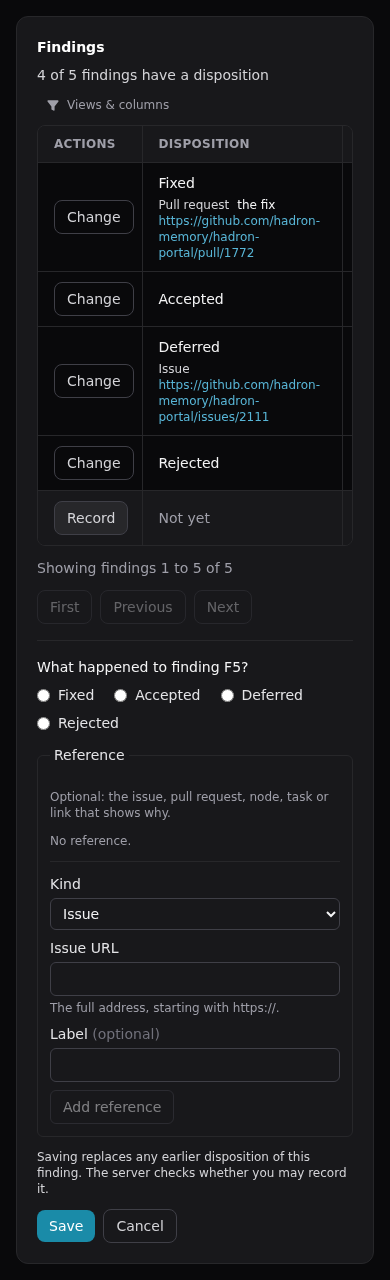
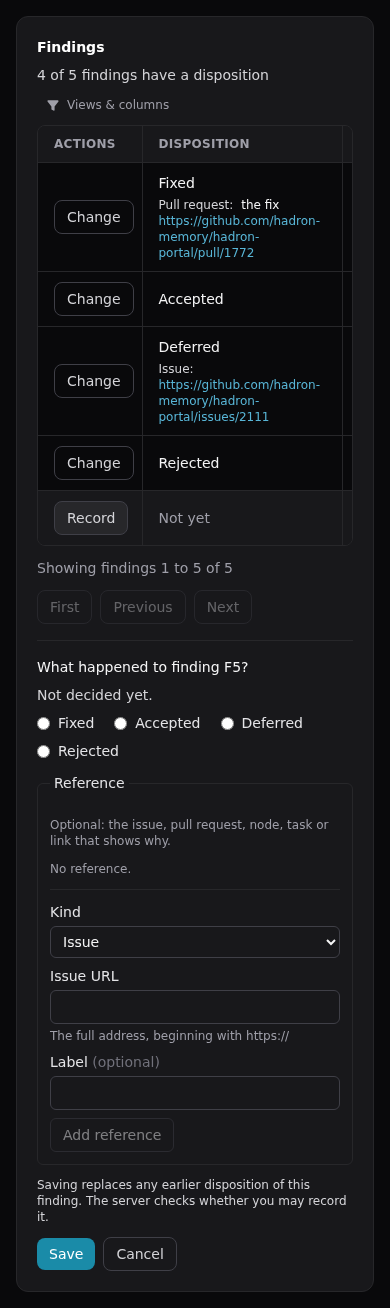
fix: follow-ups from the #2114 finding-disposition reviews (Refs #2121)
All eleven items, each P3 from the UX and blind reviews of #2114: the finding text is repeated under the form's question; the reference line separates its kind; plainer failed-read and URL helper copy; no dead derived; 'Disposition saved.' no longer outlives its page; an unavailable read says so; Record/Change stay disabled until the dispositions have loaded so a blank form can never replace a real one; the query limit comes from the provider-max constant; takesTaskRef replaces the misnamed planning flag; the SDL path is cwd-independent and the board and dispositions queries are validated against it; the layout script waits on a condition instead of a timer and is wired into package.json and CI.

Worker: Garland (portal-engineer) <hrn:worker:hadronmemory.com:hadron-dev-team:garland>

diff --git a/src/lib/components/agent-tasks/TaskFindings.svelte b/src/lib/components/agent-tasks/TaskFindings.svelte
@@ -173,6 +173,8 @@
 
   async function load(req: Request, trigger: HTMLButtonElement | null) {
     if (pending) return;
+    // A saved-confirmation belongs to the page it was made on; leaving it would mask later announcements.
+    saved = false;
     const ownedFocus = !!trigger && document.activeElement === trigger;
     cancel();
     const mine = generation;
@@ -206,12 +208,14 @@
   const next = (e: MouseEvent) => shown && load({ offset: nextFindingsOffset(shown), history: [...history, shown.offset] }, e.currentTarget as HTMLButtonElement);
   const retry = (e: MouseEvent) => failure && load(failure, e.currentTarget as HTMLButtonElement);
 
+  /** The finding the open form asks about, so its text can be repeated under the question. */
+  const editingRow = $derived(editing ? rows.find((r) => r.id === editing!.id) ?? null : null);
   const byId = $derived(disp.kind === 'ok' ? dispositionsById(disp.items) : null);
-  const resolved = $derived(disp.kind === 'ok' ? disp.total : null);
 
   async function openForm(id: string, trigger: HTMLButtonElement | null) {
-    if (saving) return;
-    const current = byId?.get(id);
+    // The form seeds from the read: never open it on a set that has not loaded, or a blank form could replace a real disposition.
+    if (saving || !byId) return;
+    const current = byId.get(id);
     editGeneration++;
     editing = { id, code: current?.disposition ?? '', refs: current?.reference ? [current.reference] : [], trigger };
     code = DISPOSITION_CODES.includes(current?.disposition as never) ? (current!.disposition) : '';
@@ -221,7 +225,7 @@
   }
   function closeForm() {
     const home = editing?.trigger;
-    editGeneration++; editing = null; refusal = null; saving = false;
+    editGeneration++; editing = null; refusal = null; saving = false; saved = false;
     void tick().then(() => { if (home?.isConnected) home.focus(); else heading?.focus(); });
   }
   const submit: Parameters<typeof enhance>[1] = ({ cancel: stop }) => {
@@ -315,9 +319,11 @@
     {/if}
     {#if disp.kind === 'ok' && view.page.total > 0}
       <p class="mb-2 text-sm text-zinc-600 dark:text-zinc-300" data-testid="findings-resolved">{t('app.tasks.disposition.resolved', '{disposed} of {total} findings have a disposition', { disposed: Math.min(disp.total, view.page.total), total: view.page.total })}</p>
+    {:else if disp.kind === 'unavailable'}
+      <p class="mb-2 text-sm text-zinc-600 dark:text-zinc-300" data-testid="dispositions-unavailable">{t('app.tasks.disposition.unavailable', 'The dispositions aren’t available.')}</p>
     {:else if disp.kind === 'failed'}
       <p class="mb-2 text-sm text-red-800 dark:text-red-300" data-testid="dispositions-failed">
-        {t('app.tasks.disposition.failed', 'Couldn’t load the dispositions, so none are shown as missing.')}
+        {t('app.tasks.disposition.failed', 'Couldn’t load the dispositions. Retry to see which findings have one.')}
         <button type="button" class="ml-2 {btn}" aria-disabled={dispPending} onclick={() => { if (!dispPending) void loadDispositions(); }}>{t('app.tasks.disposition.retry', 'Retry')}</button>
       </p>
     {/if}
@@ -340,7 +346,7 @@
             {/if}
           </div>
         {:else if c.column.id === 'actions'}
-          <button type="button" class={btn} disabled={saving} data-testid="finding-dispose"
+          <button type="button" class={btn} disabled={saving || !byId} data-testid="finding-dispose"
             aria-label={byId?.get(row.id) ? t('app.tasks.disposition.change-label', 'Change the disposition of finding {id}', { id: row.id }) : t('app.tasks.disposition.record-label', 'Record a disposition for finding {id}', { id: row.id })}
             onclick={(e) => openForm(row.id, e.currentTarget as HTMLButtonElement)}>{byId?.get(row.id) ? t('app.tasks.disposition.change', 'Change') : t('app.tasks.disposition.record', 'Record')}</button>
         {:else if c.column.id === 'severity'}
@@ -368,6 +374,7 @@
         <input type="hidden" name="findingId" value={editing.id} />
         <fieldset class="space-y-2" aria-describedby="dispose-authority">
           <legend class="text-sm font-medium text-zinc-900 dark:text-zinc-100">{t('app.tasks.disposition.legend', 'What happened to finding {id}?', { id: editing.id })}</legend>
+          {#if editingRow}{@render literal(editingRow.text, 'disposition-finding-text', 'line-clamp-3 select-text whitespace-pre-wrap break-words text-sm text-zinc-600 dark:text-zinc-300')}{/if}
           <div class="flex flex-wrap gap-x-5 gap-y-2">
             {#each DISPOSITION_CODES as c (c)}
               <label class="flex items-center gap-2 text-sm text-zinc-800 dark:text-zinc-200">

diff --git a/src/lib/components/agent-tasks/TaskFindings.disposition.client.test.ts b/src/lib/components/agent-tasks/TaskFindings.disposition.client.test.ts
@@ -214,3 +214,67 @@ describe('the form', () => {
     expect(document.activeElement).toBe(opener);
   });
 });
+
+// portal#2121: follow-ups from the #2114 reviews.
+describe('portal#2121 follow-ups', () => {
+  const nextButton = (t: HTMLElement) => Array.from(t.querySelectorAll<HTMLButtonElement>('button')).find((b) => b.textContent?.trim() === 'Next')!;
+
+  it('the form repeats the finding’s own text under the question, so it is not scrolled away on a phone', async () => {
+    stub(() => reply(okSet()));
+    const m = await setup();
+    buttons(m.target)[4]!.click(); await tick(8);
+    const form = formOf(m.target);
+    expect(form.querySelector('legend')?.textContent).toContain('finding F5');
+    expect(form.querySelector('[data-testid="disposition-finding-text"]')?.textContent).toContain('text F5');
+  });
+
+  it.each([[403], [404]])('a %i on the dispositions read says they are unavailable and shows no Not yet', async (status) => {
+    stub(() => reply({}, status));
+    const m = await setup();
+    expect(m.target.querySelector('[data-testid="dispositions-unavailable"]')?.textContent).toContain('aren’t available');
+    expect(new Set(cells(m.target))).toEqual(new Set(['Unknown']));
+    expect(m.target.querySelector('[data-testid="dispositions-failed"]')).toBeNull();
+  });
+
+  it('a failed dispositions read uses the plainer line with a Retry', async () => {
+    stub(() => reply({}, 500));
+    const m = await setup();
+    const note = m.target.querySelector('[data-testid="dispositions-failed"]');
+    expect(note?.textContent).toContain('Couldn’t load the dispositions. Retry to see which findings have one.');
+    expect(note?.querySelector('button')?.textContent).toBe('Retry');
+  });
+
+  it('Record and Change stay disabled until the dispositions have loaded, and open no form', async () => {
+    const d = deferred(); stub(() => d.promise);
+    const m = await setup();
+    expect(buttons(m.target).every((b) => b.disabled)).toBe(true);
+    buttons(m.target)[0]!.click(); await tick(4);
+    expect(m.target.querySelector('[data-testid="disposition-form"]')).toBeNull();
+    d.resolve(reply(okSet(disp('F1', 'fixed')))); await tick(8);
+    expect(buttons(m.target).every((b) => !b.disabled)).toBe(true);
+    buttons(m.target)[0]!.click(); await tick(8);
+    // Seeded from the real row, not blank: a blank form could have replaced it.
+    expect(radios(m.target).find((r) => r.value === 'fixed')!.checked).toBe(true);
+  });
+
+  it.each([[500], [403]])('a dispositions read that failed (%i) offers no form either', async (status) => {
+    stub(() => reply({}, status));
+    const m = await setup();
+    expect(buttons(m.target).every((b) => b.disabled)).toBe(true);
+  });
+
+  it('“Disposition saved.” does not outlive the page it was made on', async () => {
+    let n = 0;
+    stub((url) => url.endsWith('/dispositions')
+      ? reply(n++ === 0 ? okSet() : okSet(disp('F2', 'accepted')))
+      : reply({ kind: 'page', page: { taskId: 'task', offset: 5, items: [row('F6')], total: 6, hasMore: false } }));
+    const m = await setup({ initial: { kind: 'page', page: { taskId: 'task', offset: 0, items: [row('F1'), row('F2'), row('F3'), row('F4'), row('F5')], total: 6, hasMore: true } } });
+    buttons(m.target)[1]!.click(); await tick(8);
+    radios(m.target).find((r) => r.value === 'accepted')!.click(); await tick(2);
+    await submitEnhancedWithResult(formOf(m.target), { type: 'success', status: 200, data: { action: 'disposeFinding', ok: true } }); await tick(10);
+    const status = () => m.target.querySelector('[data-testid="findings-status"]')?.textContent;
+    expect(status()).toBe('Disposition saved.');
+    nextButton(m.target).click(); await tick(10);
+    expect(status()).toBe('Showing findings 6 to 6 of 6');
+  });
+});

diff --git a/src/routes/app/apps/[appId]/tasks/disposition.server.test.ts b/src/routes/app/apps/[appId]/tasks/disposition.server.test.ts
@@ -6,9 +6,10 @@
  * refusal changes nothing the reader sees.
  */
 import { afterEach, beforeEach, describe, expect, it, vi } from 'vitest';
-import { buildSchema, graphql } from 'graphql';
+import { buildSchema, graphql, parse, validate } from 'graphql';
 import { readFileSync } from 'node:fs';
-import { AGENT_TASKS_APP_QUERY, AGENT_TASK_FINDING_DISPOSITIONS_QUERY, AGENT_TASK_REF_QUERY, DISPOSE_AGENT_TASK_FINDING_MUTATION } from '$lib/server/queries';
+import { fileURLToPath } from 'node:url';
+import { AGENT_TASKS_APP_QUERY, AGENT_TASKS_BOARD_QUERY, AGENT_TASK_FINDING_DISPOSITIONS_QUERY, AGENT_TASK_REF_QUERY, DISPOSE_AGENT_TASK_FINDING_MUTATION } from '$lib/server/queries';
 import { taskDispositions } from '$lib/server/task-dispositions';
 import { GET } from './[taskId]/dispositions/+server';
 
@@ -21,7 +22,7 @@ const gated = async (q: string, v?: unknown) => {
   return request(q, v);
 };
 const gqlError = (code: string, message: string) => ({ response: { errors: [{ message, extensions: { code } }] } });
-const schema = buildSchema(readFileSync('schema/schema.graphql', 'utf8'));
+const schema = buildSchema(readFileSync(fileURLToPath(new URL('../../../../../../schema/schema.graphql', import.meta.url)), 'utf8'));
 
 function writeEvent(fields: Record<string, string>, impersonation: unknown = null) {
   const fd = new FormData();
@@ -38,6 +39,19 @@ describe('DISPOSE_AGENT_TASK_FINDING_MUTATION', () => {
     expect(DISPOSE_AGENT_TASK_FINDING_MUTATION).toContain('disposeAgentTaskFinding(taskRef: $taskRef, findingId: $findingId, disposition: $disposition, reference: $reference)');
     const out = graphql({ schema, source: DISPOSE_AGENT_TASK_FINDING_MUTATION, variableValues: {}, rootValue: {} });
     return expect(out).resolves.not.toMatchObject({ errors: expect.arrayContaining([expect.objectContaining({ message: expect.stringMatching(/Cannot query|Unknown (argument|type)|Variable .* of type/) })]) });
+  });
+});
+
+describe('the disposition surfaces against the pinned SDL', () => {
+  it.each([
+    ['AGENT_TASKS_BOARD_QUERY', AGENT_TASKS_BOARD_QUERY],
+    ['AGENT_TASK_FINDING_DISPOSITIONS_QUERY', AGENT_TASK_FINDING_DISPOSITIONS_QUERY],
+  ])('%s has no validation errors', (_name, source) => {
+    expect(validate(schema, parse(source)).map((e) => e.message)).toEqual([]);
+  });
+  it('the dispositions read sizes its limit from the provider maximum, not a literal', () => {
+    expect(AGENT_TASK_FINDING_DISPOSITIONS_QUERY).toContain('findingDispositions(limit: $limit, offset: $offset)');
+    expect(AGENT_TASK_FINDING_DISPOSITIONS_QUERY).not.toMatch(/limit:\s*\d/);
   });
 });
 

diff --git a/src/lib/server/task-dispositions.ts b/src/lib/server/task-dispositions.ts
@@ -7,7 +7,7 @@ type Response = { agentTask: { id: string; appId: string; findingDispositions?: 
 /**
  * portal#1643 — every current disposition of a task's findings, read under the
  * caller's own client (the viewer's token; no service credential) from the
- * SEPARATE paged `findingDispositions`, 200 a page.
+ * SEPARATE paged `findingDispositions`, {@link DISPOSITIONS_PROVIDER_MAX} a page (the same constant sizes the limit and steps the offsets).
  *
  * The answer is typed so a failed read can never pass for "nothing disposed":
  *  - a null task is the neutral `unavailable` (missing and unreadable are not told apart);
@@ -24,7 +24,7 @@ export async function taskDispositions(client: GraphQLClient, appId: string, tas
   for (let page = 0; page < DISPOSITIONS_MAX_PAGES; page++) {
     let response: Response;
     try {
-      response = await client.request<Response>(AGENT_TASK_FINDING_DISPOSITIONS_QUERY, { id: taskId, offset: page * DISPOSITIONS_PROVIDER_MAX });
+      response = await client.request<Response>(AGENT_TASK_FINDING_DISPOSITIONS_QUERY, { id: taskId, limit: DISPOSITIONS_PROVIDER_MAX, offset: page * DISPOSITIONS_PROVIDER_MAX });
     } catch {
       console.warn('[task-dispositions] read failed');
       return { kind: 'failed' };

diff --git a/src/routes/app/apps/[appId]/tasks/[taskId]/+page.server.ts b/src/routes/app/apps/[appId]/tasks/[taskId]/+page.server.ts
@@ -155,8 +155,9 @@ async function write(
     if (isHttpError(e)) throw e;
     return writeFailure(action, { kind: 'uncertain' }, values);
   }
-  const planning = action === 'handBack' || action === 'disposeFinding' || action === 'priority' || action === 'addBlocker' || action === 'removeBlocker';
-  const vars: Record<string, unknown> = { ...(planning ? { taskRef: taskId } : { taskId }), ...built.vars };
+  // These writes name the task by `taskRef` (the canonical id); the rest still send `taskId`.
+  const takesTaskRef = action === 'handBack' || action === 'disposeFinding' || action === 'priority' || action === 'addBlocker' || action === 'removeBlocker';
+  const vars: Record<string, unknown> = { ...(takesTaskRef ? { taskRef: taskId } : { taskId }), ...built.vars };
   // portal#1214: a write whose response can carry warnings keeps them.
   if (built.path) {
     const out = await taskWrite(gqlClient(locals.token), built.doc, vars, built.path);

diff --git a/src/lib/server/queries.ts b/src/lib/server/queries.ts
@@ -6060,8 +6060,8 @@ export const AGENT_TASK_FINDINGS_QUERY = /* GraphQL */ `
  * App's task is refused rather than shown.
  */
 export const AGENT_TASK_FINDING_DISPOSITIONS_QUERY = /* GraphQL */ `
-  query AgentTaskFindingDispositions($id: ID!, $offset: Int!) {
-    agentTask(id: $id) { id appId findingDispositions(limit: 200, offset: $offset) { items { findingId disposition reference { kind target label } } total hasMore } }
+  query AgentTaskFindingDispositions($id: ID!, $limit: Int!, $offset: Int!) {
+    agentTask(id: $id) { id appId findingDispositions(limit: $limit, offset: $offset) { items { findingId disposition reference { kind target label } } total hasMore } }
   }
 `;
 

diff --git a/src/lib/components/agent-tasks/TaskReferences.svelte b/src/lib/components/agent-tasks/TaskReferences.svelte
@@ -21,7 +21,7 @@
     {#each references as ref, i (i)}
       {@const link = referenceLink(ref, app)}
       <li data-reference-kind={ref.kind} class="flex min-w-0 flex-wrap items-baseline gap-x-2 text-xs">
-        <span class="shrink-0 font-medium text-zinc-600 dark:text-zinc-300">{referenceKindLabel(ref.kind)}</span>
+        <span class="shrink-0 font-medium text-zinc-600 dark:text-zinc-300">{referenceKindLabel(ref.kind)}:</span>
         {#if ref.label}<span class="min-w-0 text-zinc-800 [overflow-wrap:anywhere] dark:text-zinc-100">{neutralizeFormatChars(ref.label)}</span>{/if}
         {#if link.kind === 'href'}
           <a

diff --git a/src/lib/components/agent-tasks/TaskReferencesEditor.svelte b/src/lib/components/agent-tasks/TaskReferencesEditor.svelte
@@ -189,7 +189,7 @@
         ? t('app.tasks.ref.target.pull-request', 'Pull request URL')
         : t('app.tasks.ref.target.url', 'URL'),
   );
-  const targetHelp = $derived(t('app.tasks.ref.target.url-help', 'The full address, starting with https://.'));
+  const targetHelp = $derived(t('app.tasks.ref.target.url-help', 'The full address, beginning with https://'));
 
   const inputClass =
     'w-full rounded-md border border-zinc-300 bg-white px-2 py-1.5 text-sm text-zinc-900 dark:border-zinc-700 dark:bg-zinc-900 dark:text-zinc-100';
